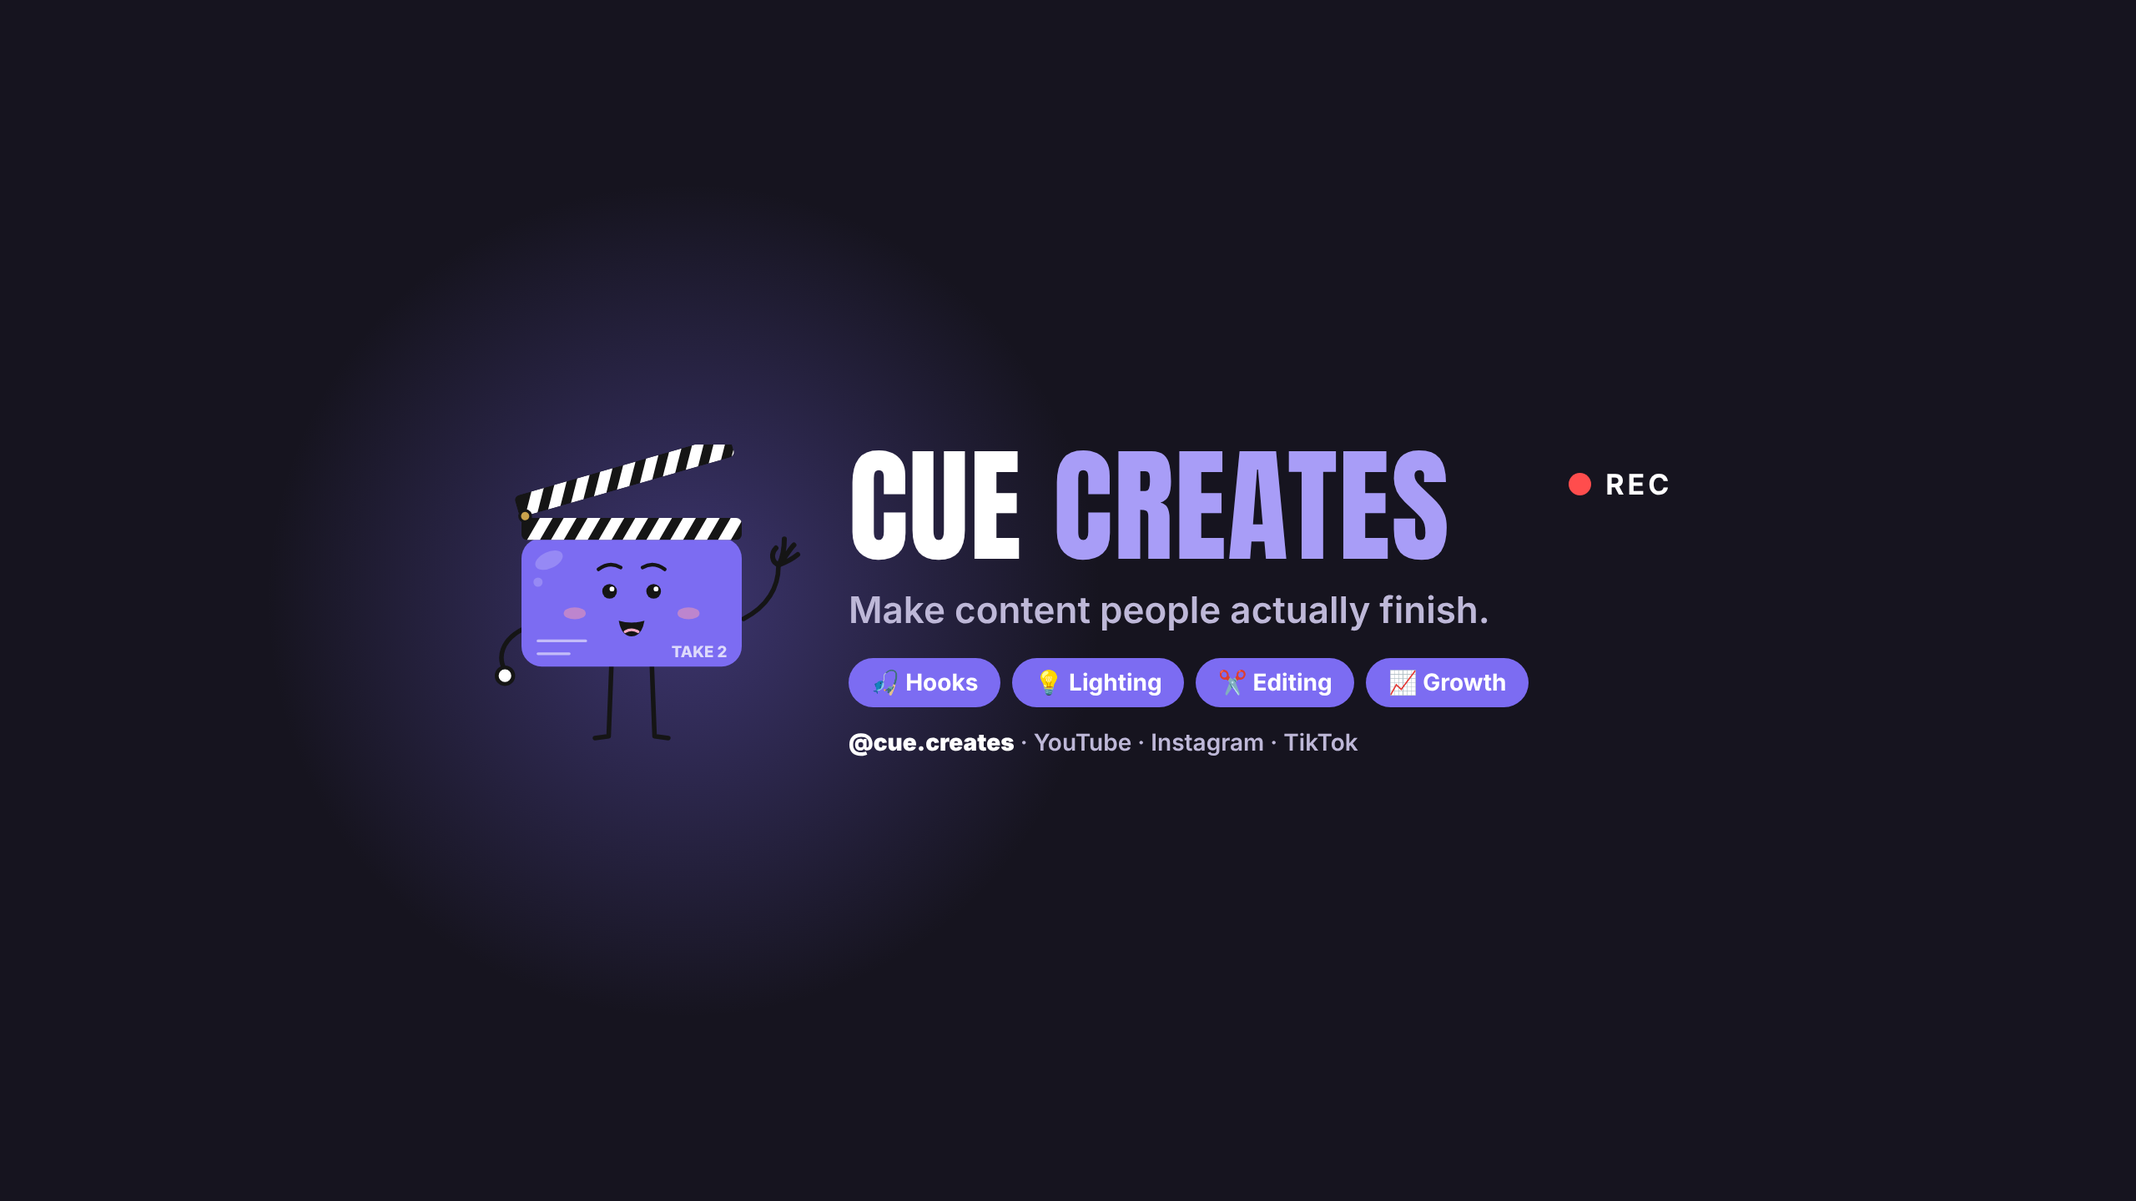
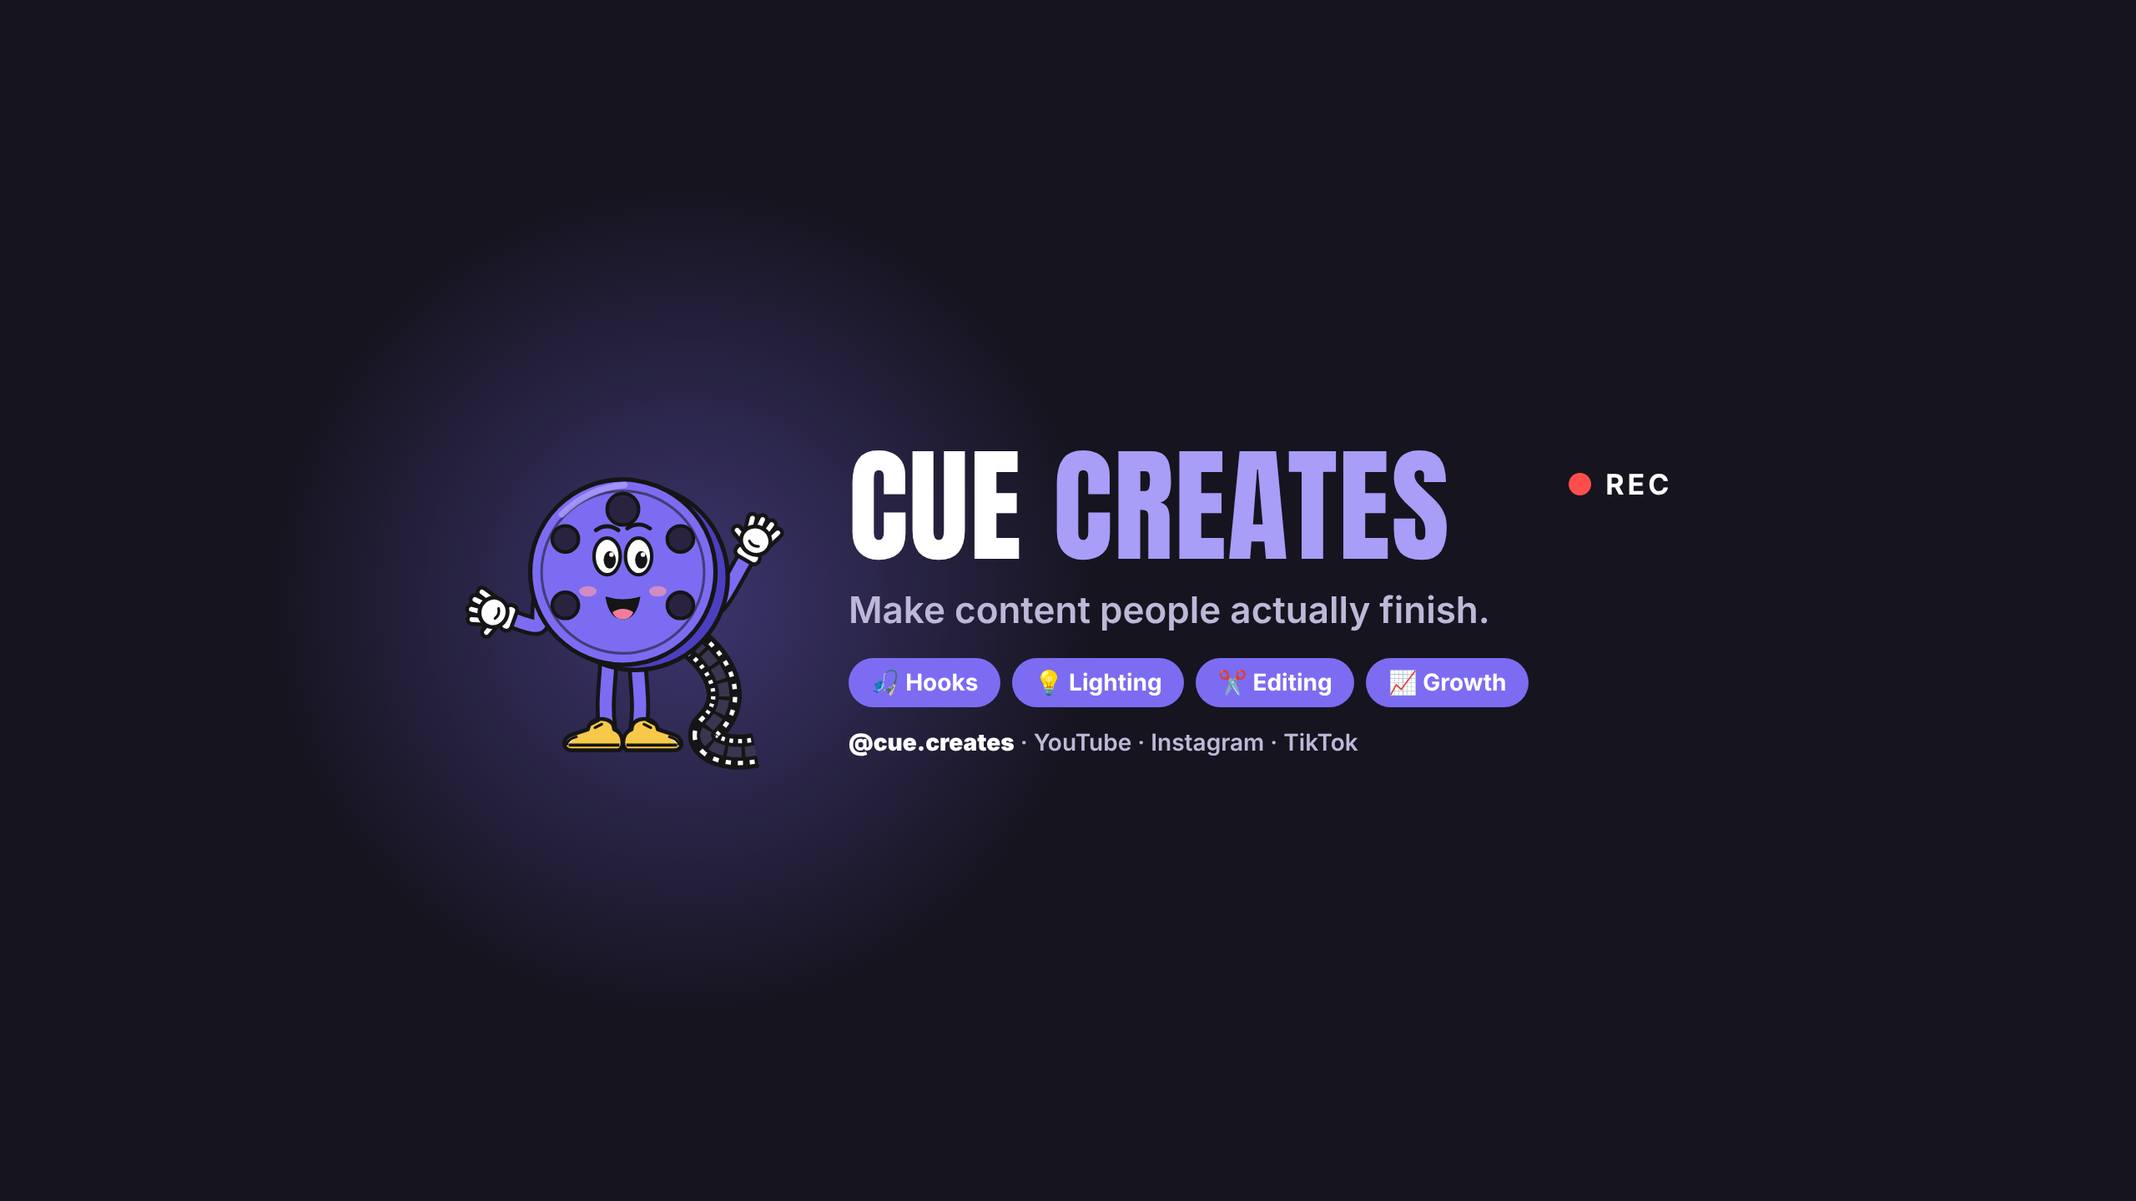
Retro redesign: Cue as film reel, nimbus as blue line-art meditating cloud
Claude-Session: https://claude.ai/code/session_01S7xrfgRerDudK1H6Nqnn2f

Changed region(s): [[0.2188, 0.3438, 0.375, 0.6562]]

diff --git a/characters/retro.js b/characters/retro.js
@@ -1,0 +1,143 @@
+// Retro "rubber-hose" redesigns: Cue (film reel, gloves + sneakers) and Nimbus (meditating line-art cloud).
+// Original drawings; only the general cartoon style is shared with 1930s-style references.
+const fs = require('fs'), path = require('path');
+const INK = '#151515', GOLD = '#C9A24B';
+const rad = a => a * Math.PI / 180;
+const dir = a => [Math.sin(rad(a)), -Math.cos(rad(a))];
+
+// tube limb: outline stroke then fill stroke on top
+const tube = (d, fill, line, w = 13, ow = 5) => `<path d="${d}" fill="none" stroke="${line}" stroke-width="${w + 2 * ow}" stroke-linecap="round" stroke-linejoin="round"/><path d="${d}" fill="none" stroke="${fill}" stroke-width="${w}" stroke-linecap="round" stroke-linejoin="round"/>`;
+
+// hand / glove in local coords: palm at 0,0, fingers toward -y. kinds: open, point, thumb, fist, mudra
+const cap = (x, y, w, h, r, fill, line, sw) => `<rect x="${x - w / 2}" y="${y - h}" width="${w}" height="${h + 6}" rx="${w / 2}" transform="rotate(${r} ${x} ${y})" fill="${fill}" stroke="${line}" stroke-width="${sw}"/>`;
+function hand(kind, x, y, a, fill, line, sw, cuff) {
+  let f = '';
+  if (kind === 'open') f = [[-12, -6, -16], [-4, -10, -5], [5, -10, 6], [13, -6, 17]].map(([fx, fy, r]) => cap(fx, fy, 10, 20, r, fill, line, sw)).join('') + cap(-14, 4, 10, 16, -70, fill, line, sw);
+  if (kind === 'point') f = cap(2, -8, 10, 26, 0, fill, line, sw);
+  if (kind === 'thumb') f = cap(-6, -8, 11, 22, -8, fill, line, sw);
+  if (kind === 'mudra') f = cap(4, -8, 9, 18, 8, fill, line, sw) + cap(12, -4, 9, 16, 22, fill, line, sw) + `<circle cx="-9" cy="-14" r="9" fill="none" stroke="${line}" stroke-width="${sw}"/>`;
+  const palm = `<ellipse cx="0" cy="0" rx="17" ry="16" fill="${fill}" stroke="${line}" stroke-width="${sw}"/>`;
+  const knuckles = (kind === 'fist' || kind === 'point' || kind === 'thumb') ? `<path d="M-9 -4 q4 3 8 0 M1 -4 q4 3 8 0" fill="none" stroke="${line}" stroke-width="${sw * .7}" stroke-linecap="round"/>` : (kind === 'open' ? `<path d="M-6 4 q6 4 12 0" fill="none" stroke="${line}" stroke-width="${sw * .7}" stroke-linecap="round"/>` : '');
+  const c = cuff ? `<rect x="-15" y="12" width="30" height="13" rx="6" fill="${fill}" stroke="${line}" stroke-width="${sw}"/>` : '';
+  return `<g transform="translate(${x} ${y}) rotate(${a})">${c}${f}${palm}${knuckles}</g>`;
+}
+function arm(sx, sy, g, fill, line, w, ow, cuff) {
+  const [dx, dy] = dir(g.a); const back = cuff ? 26 : 14;
+  const wx = g.x - dx * back, wy = g.y - dy * back;
+  const c1x = sx + (wx - sx) * .25, c1y = sy + 30, c2x = wx - dx * 45, c2y = wy - dy * 45;
+  return tube(`M${sx} ${sy} C${c1x} ${c1y} ${c2x} ${c2y} ${wx} ${wy}`, fill, line, w, ow);
+}
+
+// ============================ CUE: film reel ============================
+const CUE = (() => {
+  const V = '#7C6CF2', VDK = '#4B3FC0', VHI = '#A99FF8', HOLE = '#2A2340', SHOE = '#F7C948', TONGUE = '#F27C9B';
+  const CX = 200, CY = 168, R = 106;
+  const holes = [-90, -150, -30, 150, 30].map(t => {
+    const r = t === -90 ? 72 : 76; const s = t === -90 ? 18 : 15;
+    return `<circle cx="${CX + r * Math.cos(rad(t))}" cy="${CY + r * Math.sin(rad(t))}" r="${s}" fill="${HOLE}" stroke="${INK}" stroke-width="4"/>`;
+  }).join('');
+  const film = `<g>
+    <path d="M262 236 C318 270 330 316 300 344 C282 362 312 380 352 372" fill="none" stroke="${INK}" stroke-width="40" stroke-linecap="butt"/>
+    <path d="M262 236 C318 270 330 316 300 344 C282 362 312 380 352 372" fill="none" stroke="#fff" stroke-width="30" stroke-dasharray="5 7"/>
+    <path d="M262 236 C318 270 330 316 300 344 C282 362 312 380 352 372" fill="none" stroke="${INK}" stroke-width="20"/>
+    <path d="M262 236 C318 270 330 316 300 344 C282 362 312 380 352 372" fill="none" stroke="#3B3550" stroke-width="12" stroke-dasharray="16 4"/></g>`;
+  const body = `<circle cx="${CX + 14}" cy="${CY + 6}" r="${R}" fill="${VDK}" stroke="${INK}" stroke-width="5"/>
+    <rect x="${CX}" y="${CY - R}" width="14" height="${2 * R}" fill="${VDK}"/>
+    <circle cx="${CX}" cy="${CY}" r="${R}" fill="${V}" stroke="${INK}" stroke-width="5"/>
+    <circle cx="${CX}" cy="${CY}" r="${R - 13}" fill="none" stroke="${INK}" stroke-width="3" opacity=".55"/>
+    <path d="M${CX - 70} ${CY - 66} q30 -30 72 -34" fill="none" stroke="${VHI}" stroke-width="7" stroke-linecap="round" opacity=".8"/>` + holes;
+  const shoe = (x, flip) => `<g transform="translate(${x} 362) scale(${flip ? -1 : 1} 1)">
+    <path d="M-14 -14 C-14 -30 14 -30 16 -14 L34 -8 C46 -4 46 10 34 10 L-18 10 C-26 10 -26 -10 -14 -14 Z" fill="${SHOE}" stroke="${INK}" stroke-width="4.5" stroke-linejoin="round"/>
+    <path d="M-20 4 L38 4" stroke="${INK}" stroke-width="3.5"/><path d="M28 -6 C36 -4 40 0 40 4" fill="#fff" stroke="${INK}" stroke-width="3"/>
+    <path d="M0 -20 l8 4 M4 -24 l8 4" stroke="${INK}" stroke-width="3" stroke-linecap="round"/></g>`;
+  const legs = tube(`M184 262 C182 300 178 320 182 346`, V, INK, 14, 4.5) + tube(`M216 262 C218 300 222 320 218 346`, V, INK, 14, 4.5) + shoe(176, true) + shoe(224, false);
+  // face
+  const eye = (x, open = 1, look = 0) => `<ellipse cx="${x}" cy="150" rx="15" ry="${21 * open}" fill="#fff" stroke="${INK}" stroke-width="4"/>` + (open > .5 ? `<ellipse cx="${x + 3 + look}" cy="${154}" rx="7" ry="10" fill="${INK}"/><circle cx="${x + 5 + look}" cy="148" r="2.6" fill="#fff"/>` : '');
+  const shut = x => `<path d="M${x - 14} 152 q14 -14 28 0" fill="none" stroke="${INK}" stroke-width="5" stroke-linecap="round"/>`;
+  const brow = (x, dy = 0, t = 0) => `<path d="M${x - 13} ${120 + dy} q13 ${-9 + t} 26 0" fill="none" stroke="${INK}" stroke-width="4.5" stroke-linecap="round"/>`;
+  const M = {
+    talk: `<path d="M180 196 q20 6 40 0 q-4 26 -20 26 q-16 0 -20 -26 Z" fill="${INK}"/><path d="M188 214 q12 -8 24 0 q-4 8 -12 8 q-8 0 -12 -8 Z" fill="${TONGUE}"/>`,
+    grin: `<path d="M174 194 q26 8 52 0 q-6 32 -26 32 q-20 0 -26 -32 Z" fill="${INK}"/><path d="M186 216 q14 -9 28 0 q-5 10 -14 10 q-9 0 -14 -10 Z" fill="${TONGUE}"/><path d="M178 196 q22 6 44 0 l-2 6 q-20 5 -40 0 Z" fill="#fff"/>`,
+    oh: `<ellipse cx="200" cy="208" rx="11" ry="15" fill="${INK}"/><ellipse cx="200" cy="215" rx="6" ry="5" fill="${TONGUE}"/>`,
+    smile: `<path d="M182 200 q18 16 36 0" fill="none" stroke="${INK}" stroke-width="5" stroke-linecap="round"/>`,
+  };
+  const cheeks = `<ellipse cx="160" cy="190" rx="10" ry="6" fill="#F29BB0" opacity=".7"/><ellipse cx="240" cy="190" rx="10" ry="6" fill="#F29BB0" opacity=".7"/>`;
+  const face = {
+    explain: brow(182, 0) + brow(218, -2) + eye(182) + eye(218) + M.talk,
+    idea: brow(182, -4) + brow(218, -6) + eye(182, 1, -2) + eye(218, 1, -2) + M.grin,
+    shock: brow(182, -10, -3) + brow(218, -10, -3) + `<ellipse cx="182" cy="150" rx="17" ry="24" fill="#fff" stroke="${INK}" stroke-width="4"/><ellipse cx="218" cy="150" rx="17" ry="24" fill="#fff" stroke="${INK}" stroke-width="4"/><circle cx="183" cy="152" r="5" fill="${INK}"/><circle cx="217" cy="152" r="5" fill="${INK}"/>` + M.oh,
+    approve: brow(182, 0) + brow(218, -4) + shut(182) + eye(218) + M.grin,
+    calm: shut(182) + shut(218) + M.smile,
+  };
+  const G = {
+    explain: [{ k: 'open', x: 52, y: 214, a: -70 }, { k: 'open', x: 352, y: 132, a: 30 }],
+    idea: [{ k: 'fist', x: 78, y: 262, a: -150 }, { k: 'point', x: 330, y: 70, a: 8 }],
+    shock: [{ k: 'open', x: 56, y: 96, a: -28 }, { k: 'open', x: 344, y: 96, a: 28 }],
+    approve: [{ k: 'fist', x: 78, y: 262, a: -150 }, { k: 'thumb', x: 346, y: 120, a: 10 }],
+    calm: [{ k: 'open', x: 64, y: 228, a: -110 }, { k: 'open', x: 336, y: 228, a: 110 }],
+  };
+  const spark = (x, y, s = 1) => `<path transform="translate(${x} ${y}) scale(${s})" d="M0 -22 C2 -6 6 -2 22 0 C6 2 2 6 0 22 C-2 6 -6 2 -22 0 C-6 -2 -2 -6 0 -22 Z" fill="${GOLD}"/>`;
+  return n => {
+    const [l, r] = G[n];
+    const arms = arm(108, 196, l, V, INK, 14, 4.5, true) + arm(292, 196, r, V, INK, 14, 4.5, true);
+    const hands = hand(l.k, l.x, l.y, l.a, '#fff', INK, 4.5, true) + hand(r.k, r.x, r.y, r.a, '#fff', INK, 4.5, true);
+    const extra = n === 'idea' ? spark(366, 52, .9) : n === 'shock' ? `<g stroke="${GOLD}" stroke-width="5" stroke-linecap="round"><path d="M110 40 l-12 -14 M290 40 l12 -14 M200 30 v-18"/></g>` : '';
+    return `<svg xmlns="http://www.w3.org/2000/svg" viewBox="0 0 420 400">${film}${legs}${arms}${body}${cheeks}${face[n]}${hands}${extra}</svg>`;
+  };
+})();
+
+// ============================ NIMBUS: line-art meditating cloud ============================
+const NIMBUS = (() => {
+  const BL = '#1E5BD8', LT = '#A9C4F5', W = '#FFFFFF', SW = 4.5;
+  const C = [[148, 178, 52], [206, 140, 64], [266, 172, 54], [118, 218, 40], [292, 214, 40], [206, 206, 70], [160, 236, 36], [250, 238, 38]];
+  const cloud = C.map(([x, y, r]) => `<circle cx="${x}" cy="${y}" r="${r}" fill="${W}" stroke="${BL}" stroke-width="${SW * 2}"/>`).join('') + C.map(([x, y, r]) => `<circle cx="${x}" cy="${y}" r="${r}" fill="${W}"/>`).join('') +
+    `<g fill="none" stroke="${BL}" stroke-width="3.5" stroke-linecap="round"><path d="M128 196 q10 -14 24 -14"/><path d="M262 132 q14 2 22 14"/><path d="M190 96 q16 -8 32 -4"/></g>`;
+  // crossed legs (lotus) in front of the cloud bottom
+  const legs = tube(`M150 250 C96 266 104 312 160 312 C210 312 248 300 270 286`, W, BL, 18, SW) + tube(`M262 250 C316 266 308 312 252 312 C202 312 164 300 142 286`, W, BL, 18, SW) +
+    `<ellipse cx="282" cy="282" rx="22" ry="14" transform="rotate(-24 282 282)" fill="${W}" stroke="${BL}" stroke-width="${SW}"/><path d="M268 274 q10 -6 24 2" fill="none" stroke="${LT}" stroke-width="6" stroke-linecap="round"/>` +
+    `<ellipse cx="130" cy="282" rx="22" ry="14" transform="rotate(24 130 282)" fill="${W}" stroke="${BL}" stroke-width="${SW}"/><path d="M120 276 q10 -6 22 0" fill="none" stroke="${LT}" stroke-width="6" stroke-linecap="round"/>`;
+  const shadow = `<ellipse cx="206" cy="352" rx="110" ry="10" fill="${LT}" opacity=".45"/>`;
+  const eyeL = (x, mode) => {
+    const base = `<ellipse cx="${x}" cy="176" rx="15" ry="20" fill="${W}" stroke="${BL}" stroke-width="${SW}"/>`;
+    if (mode === 'calm') return `<clipPath id="ec${x}"><ellipse cx="${x}" cy="176" rx="15" ry="20"/></clipPath><ellipse cx="${x}" cy="176" rx="15" ry="20" fill="${W}"/><rect x="${x - 16}" y="150" width="32" height="28" fill="${LT}" clip-path="url(#ec${x})"/><ellipse cx="${x}" cy="176" rx="15" ry="20" fill="none" stroke="${BL}" stroke-width="${SW}"/><path d="M${x - 15} 178 q15 8 30 0" fill="none" stroke="${BL}" stroke-width="${SW}" stroke-linecap="round"/>`;
+    if (mode === 'wink') return `<path d="M${x - 14} 178 q14 -12 28 0" fill="none" stroke="${BL}" stroke-width="${SW + .5}" stroke-linecap="round"/>`;
+    if (mode === 'shock') return `<ellipse cx="${x}" cy="174" rx="17" ry="23" fill="${W}" stroke="${BL}" stroke-width="${SW}"/><circle cx="${x}" cy="176" r="5" fill="${BL}"/>`;
+    return base + `<ellipse cx="${x + 2}" cy="180" rx="7" ry="10" fill="${BL}"/><circle cx="${x + 4}" cy="175" r="2.4" fill="${W}"/>`;
+  };
+  const brow = (x, dy = 0) => `<path d="M${x - 12} ${146 + dy} q12 -8 24 0" fill="none" stroke="${BL}" stroke-width="3.5" stroke-linecap="round"/>`;
+  const M = {
+    talk: `<path d="M190 214 q18 -4 34 2 q-2 18 -18 18 q-15 0 -16 -20 Z" fill="${BL}"/><path d="M196 228 q10 -6 20 0 q-4 5 -10 5 q-6 0 -10 -5 Z" fill="${LT}"/>`,
+    grin: `<path d="M186 212 q22 6 42 0 q-4 26 -21 26 q-17 0 -21 -26 Z" fill="${BL}"/><path d="M194 228 q13 -7 26 0 q-5 8 -13 8 q-8 0 -13 -8 Z" fill="${LT}"/>`,
+    oh: `<ellipse cx="207" cy="222" rx="9" ry="12" fill="${BL}"/>`,
+    smile: `<path d="M192 216 q15 12 30 0" fill="none" stroke="${BL}" stroke-width="${SW}" stroke-linecap="round"/>`,
+  };
+  const cheeks = `<ellipse cx="166" cy="206" rx="10" ry="5.5" fill="${LT}" opacity=".8"/><ellipse cx="248" cy="206" rx="10" ry="5.5" fill="${LT}" opacity=".8"/>`;
+  const face = {
+    calm: brow(188) + brow(226) + eyeL(188, 'calm') + eyeL(226, 'calm') + M.talk,
+    explain: brow(188, -2) + brow(226, -2) + eyeL(188, 'calm') + eyeL(226, 'calm') + M.talk,
+    idea: brow(188, -6) + brow(226, -6) + eyeL(188) + eyeL(226) + M.grin,
+    shock: brow(188, -10) + brow(226, -10) + eyeL(188, 'shock') + eyeL(226, 'shock') + M.oh,
+    approve: brow(188, -2) + brow(226, -4) + eyeL(188, 'wink') + eyeL(226) + M.grin,
+  };
+  const G = {
+    calm: [{ k: 'mudra', x: 46, y: 176, a: -42 }, { k: 'mudra', x: 366, y: 176, a: 42 }],
+    explain: [{ k: 'mudra', x: 46, y: 176, a: -42 }, { k: 'open', x: 368, y: 150, a: 40 }],
+    idea: [{ k: 'mudra', x: 46, y: 176, a: -42 }, { k: 'point', x: 350, y: 92, a: 10 }],
+    shock: [{ k: 'open', x: 52, y: 104, a: -30 }, { k: 'open', x: 360, y: 104, a: 30 }],
+    approve: [{ k: 'mudra', x: 46, y: 176, a: -42 }, { k: 'thumb', x: 358, y: 126, a: 10 }],
+  };
+  const moon = `<g transform="translate(300 70) rotate(18)"><path d="M0 -22 A22 22 0 1 0 14 17 A17 17 0 1 1 0 -22 Z" fill="${GOLD}"/></g>`;
+  const star = (x, y, s) => `<path transform="translate(${x} ${y}) scale(${s})" d="M0 -22 C2 -6 6 -2 22 0 C6 2 2 6 0 22 C-2 6 -6 2 -22 0 C-6 -2 -2 -6 0 -22 Z" fill="${LT}"/>`;
+  return n => {
+    const [l, r] = G[n];
+    const arms = arm(122, 214, l, W, BL, 14, SW, false) + arm(290, 214, r, W, BL, 14, SW, false);
+    const hands = hand(l.k, l.x, l.y, l.a, W, BL, SW, false) + hand(r.k, r.x, r.y, r.a, W, BL, SW, false);
+    return `<svg xmlns="http://www.w3.org/2000/svg" viewBox="0 20 420 360">${shadow}${arms}${cloud}${legs}${cheeks}${face[n]}${hands}${moon}${star(96, 70, .6)}${n === 'idea' ? star(380, 50, .9) : ''}</svg>`;
+  };
+})();
+
+for (const [name, fn] of [['cue', CUE], ['nimbus', NIMBUS]]) {
+  const d = path.join(__dirname, name, 'svg'); fs.mkdirSync(d, { recursive: true });
+  for (const p of ['explain', 'idea', 'shock', 'approve', 'calm']) fs.writeFileSync(path.join(d, `${name}_${p}.svg`), fn(p));
+}
+console.log('ok');

diff --git a/characters/brand_kits/brothers.js b/characters/brand_kits/brothers.js
@@ -36,12 +36,12 @@ const B = {
     deco: (w, h, k) => glow(k.gx, k.gy, k.gr, 'rgba(124,108,242,.38)') + `<div style="position:absolute;left:${k.rec[0]}px;top:${k.rec[1]}px;font:700 ${k.rs}px Inter;color:#fff;letter-spacing:.12em;display:flex;align-items:center;gap:${k.rs * .5}px"><span style="width:${k.rs * .8}px;height:${k.rs * .8}px;border-radius:50%;background:#FF4D4D;display:inline-block"></span>REC</div>`,
   },
   nimbus: {
-    bg: 'linear-gradient(160deg,#DCE7FA 0%,#E9E3F7 55%,#F6EEF3 100%)', ink: '#2E4470', sub: '#62729A', acc: '#7C93D6',
-    title: `nimbus`, titleCss: `font:300 1em 'Inter Display';letter-spacing:-.03em;text-transform:lowercase`,
+    bg: 'linear-gradient(160deg,#F6F9FF 0%,#E8F0FF 100%)', ink: '#1E5BD8', sub: '#5B7FCB', acc: '#1E5BD8',
+    title: `nimbus`, titleCss: `font:600 1em 'Inter Display';letter-spacing:-.03em;text-transform:lowercase`,
     tag: 'slow down. breathe. feel better.', tagCss: `font:400 1em Inter;letter-spacing:.02em`,
-    pills: ['🌙 Sleep', '🌿 Stress', '🫁 Breathing', '☁ Calm'], pillCss: c => `background:rgba(255,255,255,.65);color:#2E4470;border:2px solid rgba(255,255,255,.9)`,
+    pills: ['🌙 Sleep', '🌿 Stress', '🫁 Breathing', '☁ Calm'], pillCss: c => `background:#fff;color:#1E5BD8;border:3px solid #1E5BD8`,
     handle: '@nimbus.calm', poseP: 'calm', poseB: 'calm',
-    deco: (w, h, k) => k.stars.map(([x, y, s]) => star(x, y, s, '#fff', .9)).join('') + blob(k.c1[0], k.c1[1], k.c1[2], k.c1[3], '#fff', .45) + blob(k.c2[0], k.c2[1], k.c2[2], k.c2[3], '#fff', .35),
+    deco: (w, h, k) => k.stars.map(([x, y, s]) => star(x, y, s, '#A9C4F5', .9)).join('') + '',
   },
   roux: {
     bg: '#FBF3E8', ink: '#2B1B12', sub: '#7A5A47', acc: '#D9724A',
@@ -64,7 +64,7 @@ const text = (b, sz) => `
 const pages = (id, b) => ({
   profile: [1080, 1080, `<div style="width:1080px;height:1080px;${bgCss(b)};position:relative;overflow:hidden">
      ${id === 'cue' ? glow(540, 560, 520, 'rgba(124,108,242,.42)') : ''}
-     ${id === 'nimbus' ? star(180, 200, 60) + star(860, 260, 40) + star(820, 830, 34) : ''}
+     ${id === 'nimbus' ? star(160, 180, 60, '#A9C4F5') + star(880, 220, 40, '#A9C4F5') : ''}
      ${id === 'drbeat' ? ecg(1080, 1080, 900, '#E0526A', .18, 8) : ''}
      <div style="position:absolute;left:50%;top:50%;width:${id==='roux'?720:800}px;transform:translate(-50%,-50%) translate(${id==='drbeat'?-20:id==='cue'?0:0}px,${id==='roux'?10:20}px)">${S(id, b.poseP)}</div></div>`],
   banner: [2560, 1440, `<div style="width:2560px;height:1440px;${bgCss(b)};position:relative;overflow:hidden">

diff --git a/characters/brand_kits/BIOS.md b/characters/brand_kits/BIOS.md
@@ -1,11 +1,11 @@
 # Lobe's brothers: names, handles and bios
 
-Each brother keeps the family drawing style but has his own look and voice.
+Dr. Beat and Roux keep the family drawing style; Cue and nimbus use a retro 1930s cartoon style. Each brother has his own look and voice.
 
 | | Dr. Beat | Cue | Nimbus | Roux |
 |---|---|---|---|---|
 | Topic | How the body works | Content-creator tips | Calm mind, sleep, stress | Kitchen science |
-| Look | Clinic mint + heart red, heartbeat line | Clapperboard on a dark studio background, violet spotlight, REC dot | Soft sky gradient, stars, lowercase | Cream recipe-grid paper, terracotta, serif |
+| Look | Clinic mint + heart red, heartbeat line | Retro cartoon film reel (white gloves, yellow sneakers, film strip) on a dark studio background, violet spotlight, REC dot | Retro blue line-art cloud meditating cross-legged, light blue background, lowercase | Cream recipe-grid paper, terracotta, serif |
 | Voice | Curious doctor: "Your body is weirder than you think." | Fast, punchy coach: "Stop. Fix your hook." | Slow, gentle, lowercase, no shouting | Playful chef-scientist: "Here's WHY it works." |
 | Handle | @drbeat.explains | @cue.creates | @nimbus.calm | @roux.foodlab (backup @hiroux) |
 
@@ -20,7 +20,7 @@ Each brother keeps the family drawing style but has his own look and voice.
 ## 🎬 Cue
 - **Name:** Cue Creates
 - **Instagram / TikTok bio:** Make content people actually finish 🎬 Hooks · Lighting · Editing · Growth
-- **YouTube description:** Cue is a little clapperboard who helps creators make videos people actually finish. Better hooks, cheap lighting setups, editing tricks and growth habits, one quick lesson a day. Take two is always allowed.
+- **YouTube description:** Cue is a little film reel who helps creators make videos people actually finish. Better hooks, cheap lighting setups, editing tricks and growth habits, one quick lesson a day. Take two is always allowed.
 - **Facebook Page:** category "Education Website" · About: Quick, practical tips for content creators. Hooks, lighting, editing and growth.
 
 ## ☁ Nimbus
